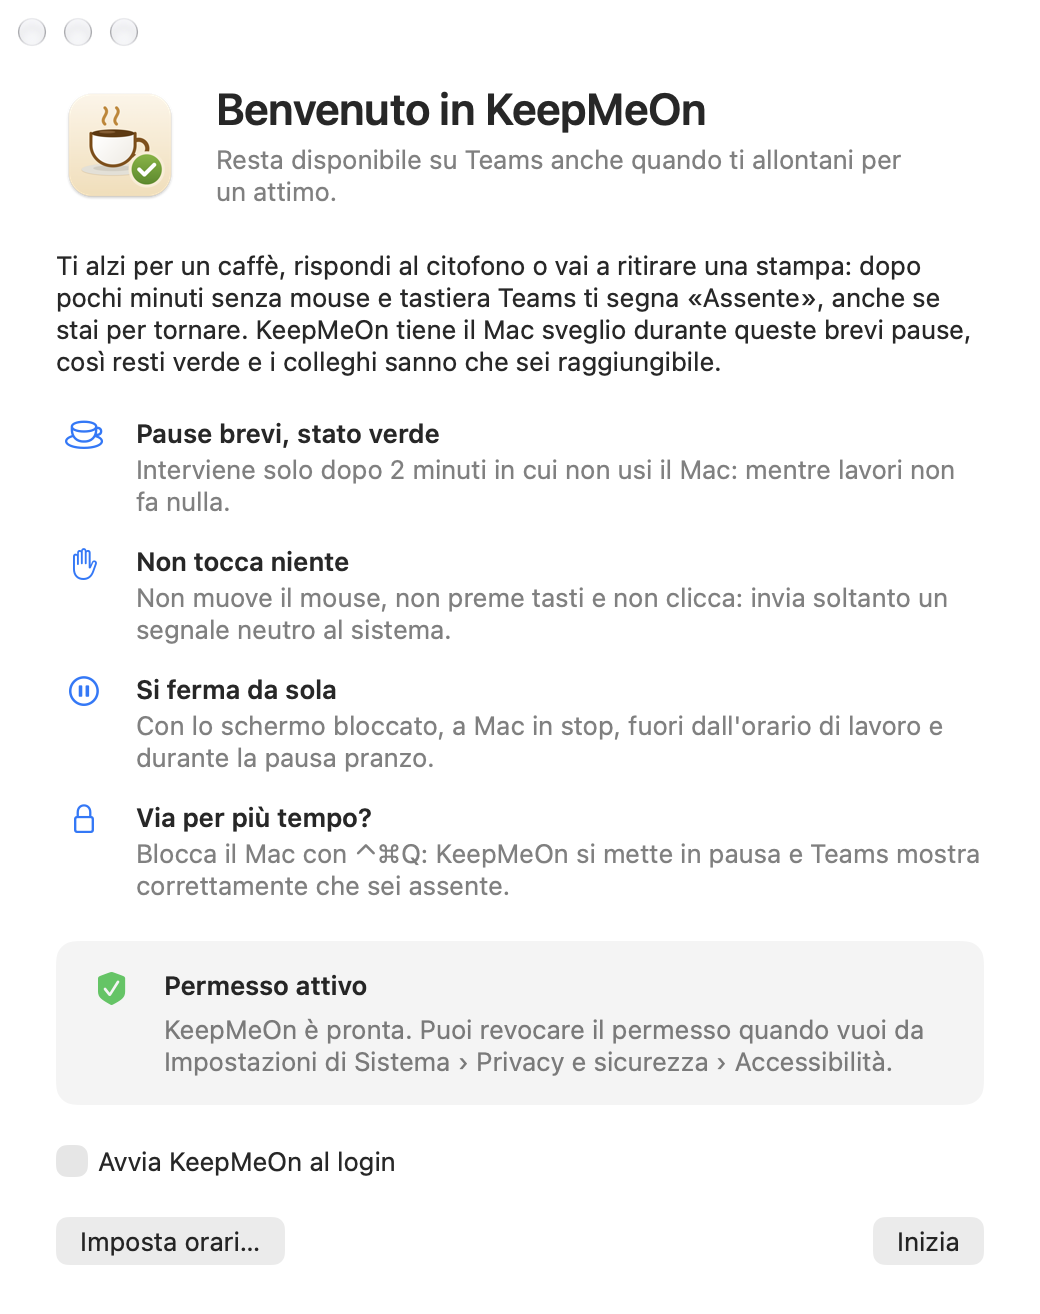
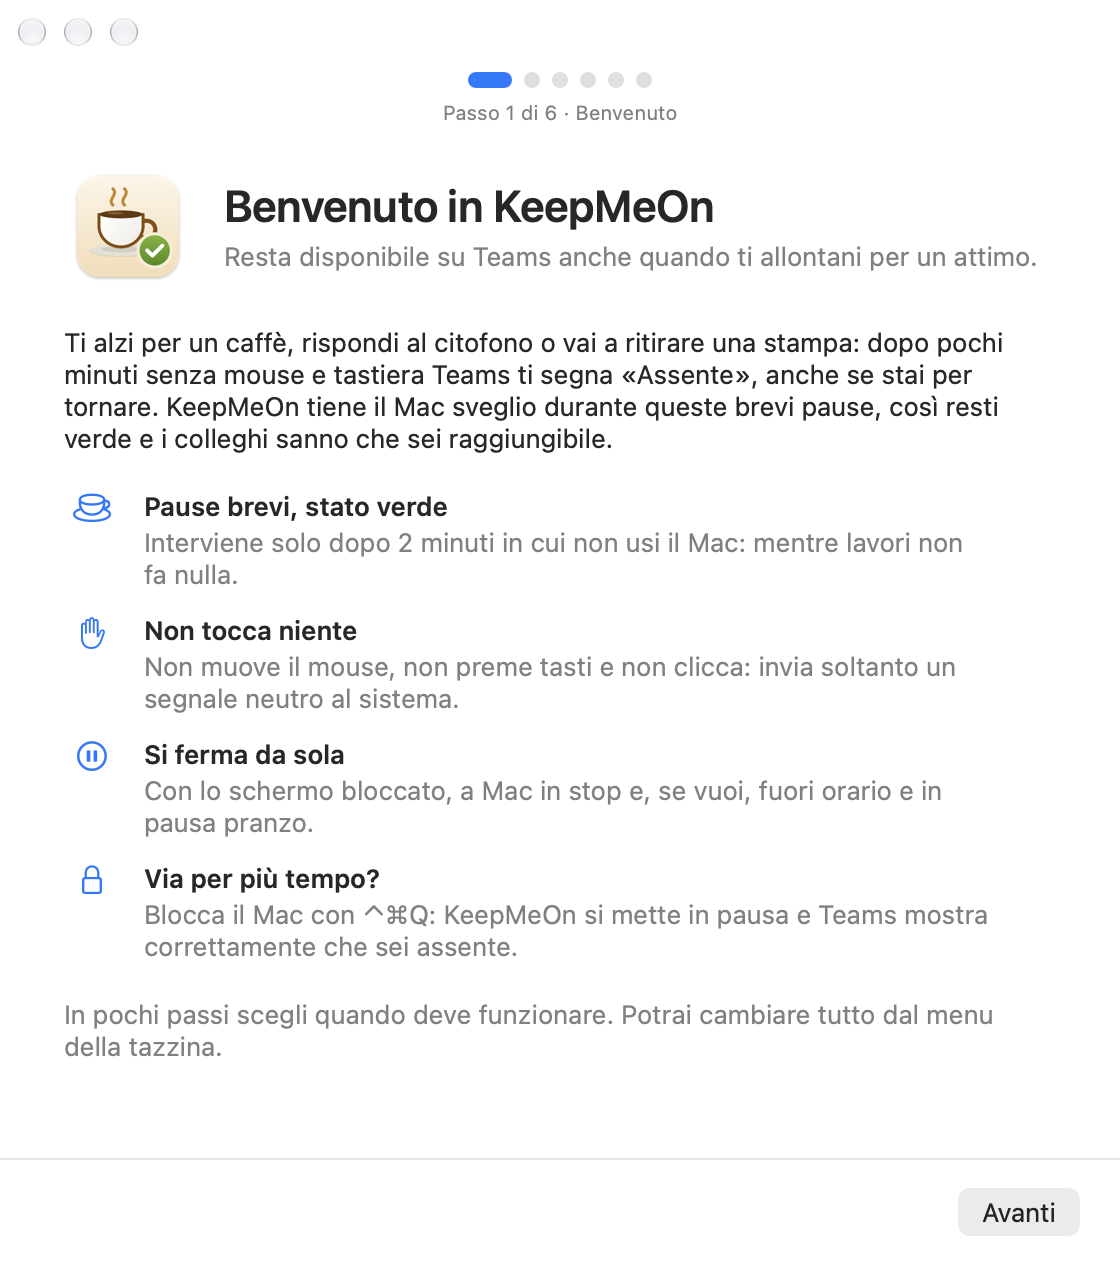
README: configurazione guidata e aggiornamenti
- Installazione con la configurazione guidata, su Mac e Windows
- Voci del menu per gli aggiornamenti e sezione Aggiornamenti
- La nota sulla privacy spiega il controllo degli aggiornamenti su GitHub
- Immagini nuove della guida e del menu

diff --git a/README.md b/README.md
@@ -39,8 +39,8 @@ Ti alzi per un caffè, rispondi al citofono o vai a ritirare una stampa. Dopo ci
     <th>Windows</th>
   </tr>
   <tr>
-    <td><img src="docs/benvenuto.png" width="400" alt="Schermata di benvenuto su Mac"></td>
-    <td><img src="docs/windows/benvenuto.png" width="400" alt="Schermata di benvenuto su Windows"></td>
+    <td><img src="docs/benvenuto.png" width="400" alt="Configurazione guidata su Mac: benvenuto"></td>
+    <td><img src="docs/windows/benvenuto.png" width="400" alt="Configurazione guidata su Windows: benvenuto"></td>
   </tr>
 </table>
 
@@ -55,8 +55,10 @@ Ti alzi per un caffè, rispondi al citofono o vai a ritirare una stampa. Dopo ci
   - durante la pausa pranzo, se la attivi.
 - **Orario di lavoro:** ora di inizio e di fine e giorni della settimana (predefinito lun–ven, 09:00–18:00). Funzionano anche le fasce a cavallo della mezzanotte.
 - **Pausa pranzo:** una fascia giornaliera in cui l'app non interviene (predefinita 13:00–14:00).
+- **Configurazione guidata** al primo avvio: in pochi passi scegli quando deve funzionare, la pausa pranzo, l'avvio automatico e gli aggiornamenti.
+- **Aggiornamenti con un clic:** dal menu dell'icona, oppure in automatico una volta al giorno (si può disattivare).
 - **Avvio automatico** e possibilità di **nascondere l'icona**: KeepMeOn può lavorare senza nulla di visibile.
-- **Non si collega a Internet e non raccoglie dati.** Le impostazioni restano sul tuo computer.
+- **Non raccoglie dati.** Le impostazioni restano sul tuo computer. Si collega a Internet solo per controllare su GitHub se c'è una nuova versione, e solo se gli aggiornamenti automatici sono attivi o lo chiedi tu.
 
 Se ti allontani a lungo, blocca il computer (**⌃⌘Q** su Mac, **Windows+L** su Windows): KeepMeOn si mette in pausa e Teams mostra correttamente che sei assente.
 
@@ -67,11 +69,12 @@ Se ti allontani a lungo, blocca il computer (**⌃⌘Q** su Mac, **Windows+L** s
 1. Scarica **[KeepMeOn.dmg](https://github.com/christianmusumeci00/KeepMeOn/releases/latest/download/KeepMeOn.dmg)**.
 2. Apri il DMG e trascina **KeepMeOn** nella cartella **Applicazioni**.
 3. Apri **KeepMeOn** da Applicazioni o da Spotlight. L'app è firmata con un certificato Developer ID e notarizzata da Apple, quindi si apre con un doppio clic. Visto che arriva da Internet, macOS chiede una sola conferma: premi **Apri**.
-4. **Permesso di Accessibilità.**
-   1. Nella schermata di benvenuto premi **Apri Impostazioni Accessibilità** e attiva **KeepMeOn** nell'elenco.
-   2. L'app si riavvia da sola: macOS applica questo permesso solo all'avvio.
-   3. Il benvenuto ricompare con «Permesso attivo».
-5. Premi **Inizia**. Se vuoi, attiva **Avvia KeepMeOn al login** direttamente dal benvenuto.
+4. Si apre la **configurazione guidata**. Segui i passi con **Avanti**:
+   1. **Permesso di Accessibilità:** premi **Apri Impostazioni Accessibilità** e attiva **KeepMeOn** nell'elenco. L'app si riavvia da sola, perché macOS applica questo permesso solo all'avvio, e la guida riprende da dove eri rimasto.
+   2. **Quando deve funzionare:** sempre, oppure solo in orario di lavoro, con orari e giorni.
+   3. **Pausa pranzo:** se KeepMeOn deve fermarsi e in quale fascia.
+   4. **Avvio e aggiornamenti:** avvio al login e controllo automatico degli aggiornamenti.
+5. Nel riepilogo premi **Inizia**.
 
 Nella barra dei menu compare una tazzina.
 
@@ -80,7 +83,7 @@ Nella barra dei menu compare una tazzina.
 1. Scarica **[KeepMeOn-Setup.exe](https://github.com/christianmusumeci00/KeepMeOn/releases/latest/download/KeepMeOn-Setup.exe)** e avvialo.
 2. L'installer non è firmato con un certificato a pagamento, quindi la prima volta Windows mostra «Windows ha protetto il PC». Clicca **Ulteriori informazioni** › **Esegui comunque**.
 3. L'installazione è solo per il tuo utente: non servono permessi di amministratore. Se vuoi, lascia attiva l'opzione «Avvia KeepMeOn all'accesso a Windows».
-4. Si apre la schermata di benvenuto: premi **Inizia**. Su Windows non c'è nessun permesso da concedere.
+4. Si apre la **configurazione guidata**: scegli quando deve funzionare, la pausa pranzo, l'avvio all'accesso e gli aggiornamenti, poi premi **Inizia**. Su Windows non c'è nessun permesso da concedere.
 
 La tazzina compare nell'area di notifica, vicino all'orologio. Se non la vedi, apri la freccia «Mostra icone nascoste» e trascinala sulla barra delle applicazioni.
 
@@ -125,8 +128,20 @@ Su Mac si apre dalla tazzina nella barra dei menu; su Windows con un clic, sinis
 | Imposta orari… | Apre la finestra con orario di lavoro e pausa pranzo |
 | Avvia al login (Mac) / Avvia all'accesso a Windows | Avvia KeepMeOn all'accesso al computer |
 | Nascondi icona… | Toglie l'icona. Per riaverla riapri KeepMeOn: su Mac da Spotlight o Applicazioni, su Windows dal menu Start |
-| Come funziona… | Riapre la schermata di benvenuto |
+| Configurazione guidata… | Riapre la configurazione guidata dall'inizio |
+| Controlla aggiornamenti… | Cerca subito una nuova versione su GitHub |
+| Aggiornamenti automatici | Controlla da solo una volta al giorno (attivo di serie) |
+| KeepMeOn 1.2.0 | La versione installata |
 | Esci | Chiude l'app |
+
+### Aggiornamenti
+
+Quando c'è una nuova versione, KeepMeOn chiede se installarla: con **Installa e riavvia** la scarica, la installa e si riapre da sola. Impostazioni e permessi restano; con **Novità…** (su Windows «Leggi le novità») vedi cosa cambia.
+
+- **Mac:** prima di installare, KeepMeOn verifica che la nuova app sia firmata dallo stesso sviluppatore di quella in uso; se non lo è, l'aggiornamento viene rifiutato. Serve che KeepMeOn possa scrivere nella cartella in cui si trova, per esempio Applicazioni.
+- **Windows:** l'installer della nuova versione parte senza finestre e mantiene la tua scelta sull'avvio all'accesso.
+
+Il controllo automatico è una semplice richiesta all'indirizzo pubblico delle release su GitHub: non invia nessun dato personale.
 
 ### Orari
 
@@ -279,7 +294,7 @@ La voce nell'elenco appartiene a un'altra build di KeepMeOn, per esempio una com
    ```
 
 2. Esci da KeepMeOn e riaprila.
-3. Concedi di nuovo il permesso dal benvenuto o dal menu.
+3. Concedi di nuovo il permesso dal menu (**Concedi il permesso di Accessibilità…**).
 
 **Windows: all'avvio dell'installer compare «Windows ha protetto il PC».**
 Succede perché l'installer non è firmato con un certificato a pagamento. Clicca **Ulteriori informazioni** › **Esegui comunque**. Serve solo la prima volta.
@@ -298,6 +313,9 @@ Succede perché l'installer non è firmato con un certificato a pagamento. Clicc
   ```
 
 - Su Windows ogni intervento è scritto in `%LOCALAPPDATA%\KeepMeOn\keepmeon.log`.
+
+**Come aggiorno KeepMeOn?**
+Dal menu dell'icona scegli **Controlla aggiornamenti…**; se c'è una nuova versione premi **Installa e riavvia**. Con **Aggiornamenti automatici** attivo, KeepMeOn controlla da sola una volta al giorno e ti avvisa. Se l'aggiornamento non riesce, puoi sempre scaricare l'ultima versione dalla pagina [Release](https://github.com/christianmusumeci00/KeepMeOn/releases/latest).
 
 **Il computer non si blocca più da solo.**
 È voluto: mentre KeepMeOn è attiva e non sei in pausa, il computer non va in stop per inattività. Quando ti allontani a lungo, bloccalo (⌃⌘Q su Mac, Windows+L su Windows).
